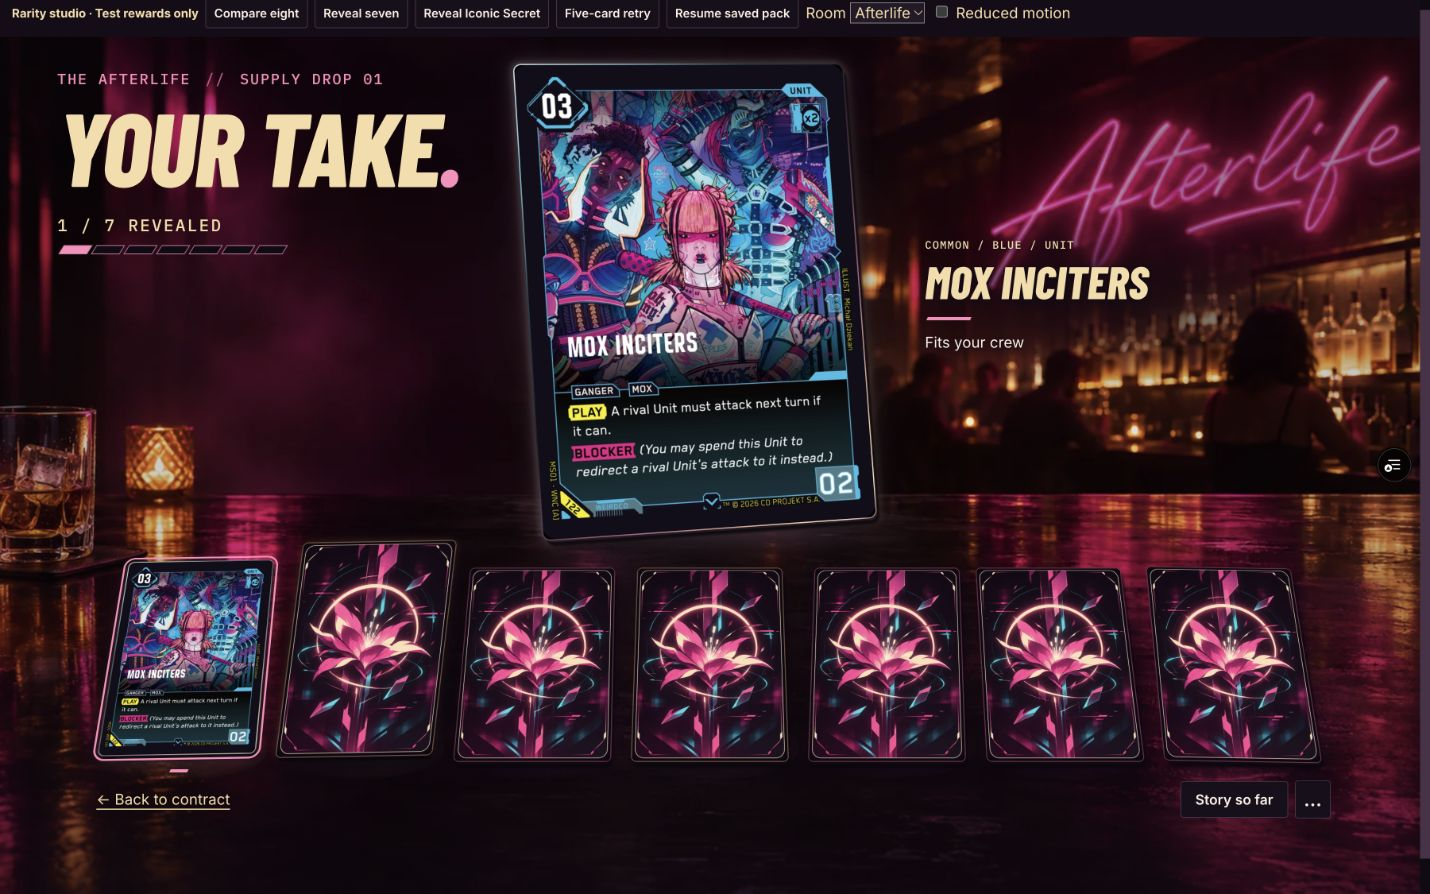
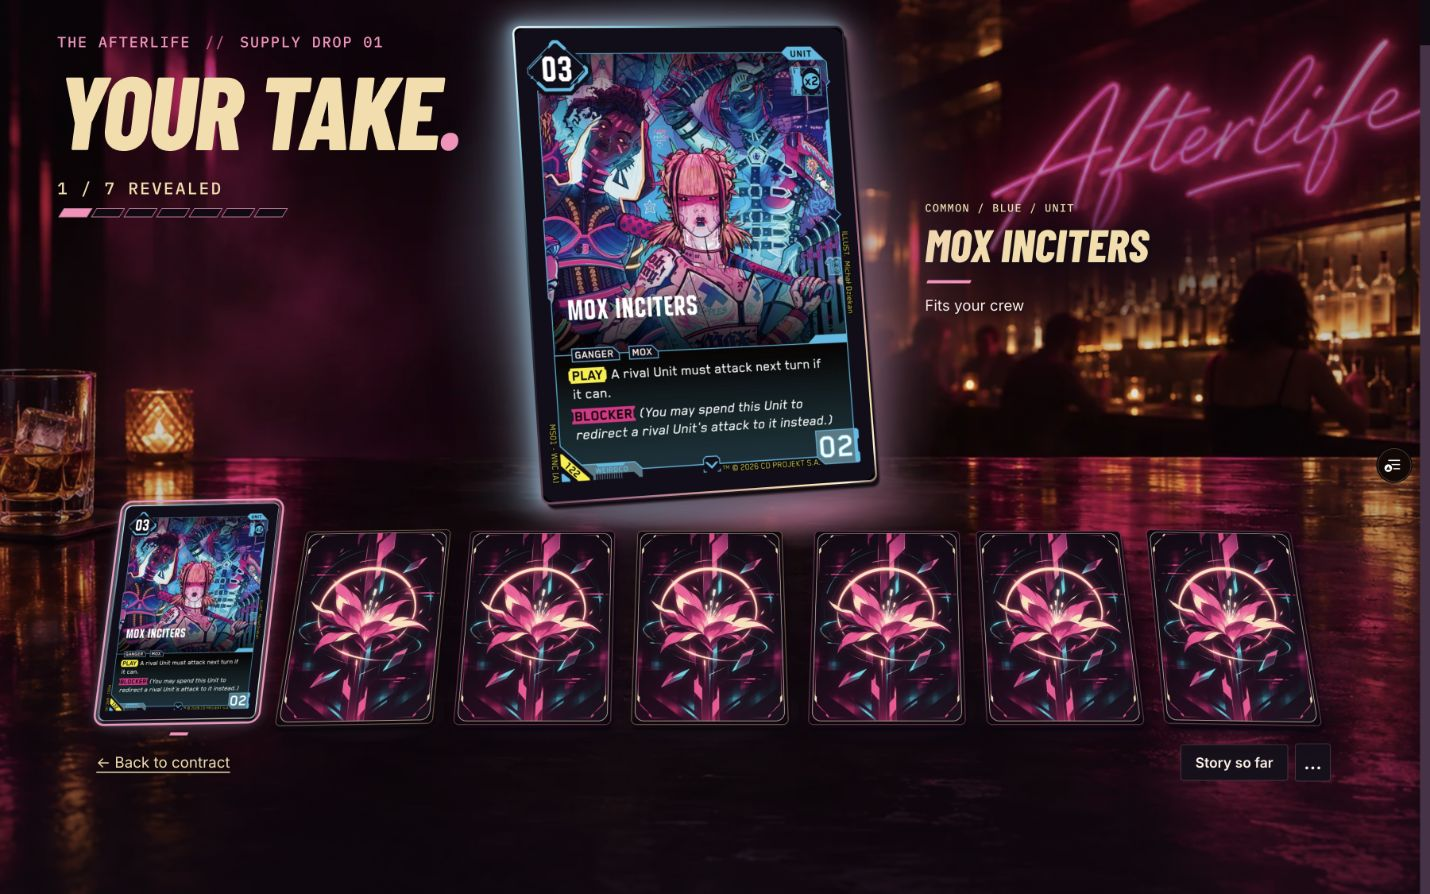
Record stronger glow visual verification and screenshots

diff --git a/docs/pack-material-verification.md b/docs/pack-material-verification.md
@@ -1,27 +1,41 @@
 # Campaign pack materials — verification
 
-PR: https://github.com/LeviJohnsonNC/cyberpunk-tcg-vault/pull/92
+PR: https://github.com/LeviJohnsonNC/cyberpunk-tcg-vault/pull/93
 
-Preview: https://cyberpunk-tcg-vault-git-codex-pa-d6eaf2-levijohnsonncs-projects.vercel.app/campaign-preview.html?materials
+Preview: https://cyberpunk-tcg-vault-git-codex-pa-66ffec-levijohnsonncs-projects.vercel.app/campaign-preview.html?materials
 
 ## Presentation
 
-The featured card has a perspective pose, physical edge thickness, directional rim, narrow bloom, soft halo, contact shadow, tabletop spill and a short reflected image. Exact printing art remains unchanged. Common was implemented and rendered at laptop sizes before the other materials were introduced.
+The featured card has a perspective pose, physical edge thickness, directional rim, layered bloom, broad halo, contact shadow, tabletop spill and a short reflected image. Exact printing art remains unchanged. The follow-up increases exterior lighting substantially: saturated multi-layer bloom, wider halos, brighter tabletop pools and stronger persistent colour separation. Surface sweep opacity remains capped at 0.45 and settles to zero so artwork and rules stay readable.
 
 | Printing rarity | Material |
 | --- | --- |
-| Common | Quiet satin, cyan/amber environmental catches |
-| Uncommon | Mint and silver edge finish |
-| Rare | Warm metallic edge and short gold sweep |
-| Epic | Violet/rose interference finish |
-| Secret | Champagne pearl, subtle iridescence and corner catches |
-| Iconic Other | Cyan/magenta dichroic separation |
-| Iconic Legend | Gilded rim with restrained prismatic accents |
-| Iconic Secret | Platinum/gold prism and the richest reveal |
+| Common | Cool satin rim with the quietest halo |
+| Uncommon | Luminous mint and silver |
+| Rare | Saturated amber and bronze bloom |
+| Epic | Broad violet/rose interference glow |
+| Secret | Bright champagne pearl and lilac |
+| Iconic Other | Cyan-left/magenta-right dichroic separation |
+| Iconic Legend | Gold/orange bloom with violet accents |
+| Iconic Secret | Platinum, cyan, pink and gold prism; widest halo |
 
-The reveal sequence retains the physical flip and movement. Surface effects begin only after the face is exposed and its exact artwork loads. They last 480–990ms, overlap movement and settle to quiet static edges. Previously revealed cards do not replay discovery effects. The lineup uses lighter versions of the material edges; its selection outline and marker are independent of rarity.
+The reveal sequence retains the physical flip and movement. Surface effects begin only after the face is exposed and its exact artwork loads. They last 480–990ms, overlap movement and settle to sustained static glow. Previously revealed cards do not replay discovery effects. The lineup uses lighter versions of the material edges; its selection outline and marker are independent of rarity. Sealed cards do not disclose their rarity.
 
-## Rendered verification
+## Stronger-glow follow-up verification
+
+Verified application commit a659b4501fa28ddbcb8d7187febe9a9fb503e4e2 in the actual Vercel preview:
+
+- All eight materials together at 1920×1080, both with and without labels. Mint, amber, violet, pearl, split cyan/magenta, gilded and prismatic exterior lighting remain visible at rest.
+- Revealed all eight printing rarities through the production pack flow at 1440×900; inspected reveal onset/flight and settled featured-card states. The larger halo stays outside opaque card artwork.
+- Seven-card reveal still reaches the bonus-card action.
+- Reduced motion: Enter reveals a card immediately, discovery is absent, all material animation names are `none`, surface/glint opacity is zero, and static halo/bloom remain visible.
+- 390px Common and 320px Iconic Secret views: no horizontal page overflow; horizontal lineup remains contained; controls remain accessible.
+- Final browser console error check returned no errors. Temporary viewport and motion overrides were restored.
+- `npm run check` passed: lint, 445 tests across 41 files, TypeScript and production build. Existing React-hook and large-chunk warnings remain.
+- `git diff --check` passed; Vercel build succeeded.
+- No new production image assets or dependencies; reward, save, inventory and progression logic is unchanged.
+
+## Original material-system verification (PR 92)
 
 Inspected actual Vercel preview UI through the connected Chrome browser:
 
@@ -35,7 +49,7 @@ Inspected actual Vercel preview UI through the connected Chrome browser:
 - Repaired the reflected image transform and checked that the reflected image overlaps its masked frame.
 - Final browser console error check returned no errors.
 
-## Interaction and regression checks
+## Original interaction and regression checks (PR 92)
 
 - Nonsequential reveals and repeated clicks: one saved reveal per slot.
 - Sealed slots have no rarity/material attributes, material styles or revealing accessible labels.
@@ -49,7 +63,7 @@ Inspected actual Vercel preview UI through the connected Chrome browser:
 - Five-card retry completes directly into the Workbench without a bonus offer.
 - The fixture uses an isolated qa:pack-materials save scope and is included only in development/Vercel preview builds.
 
-## Automated checks
+## Original automated checks (PR 92)
 
 Final application-code commit: 994901773144b226215990899a0e831f6bce68e0.
 
@@ -69,4 +83,4 @@ All eight materials, settled:
 
 ![Eight rarity materials](screenshots/pack-material-eight.jpg)
 
-Use Reveal seven and Reveal Iconic Secret in the preview studio to watch the actual production reveal animations. The screenshots show their quieter resting state.
+Use Reveal seven and Reveal Iconic Secret in the preview studio to watch the actual production reveal animations. The updated screenshots show the stronger persistent glow after the reveal has settled.
